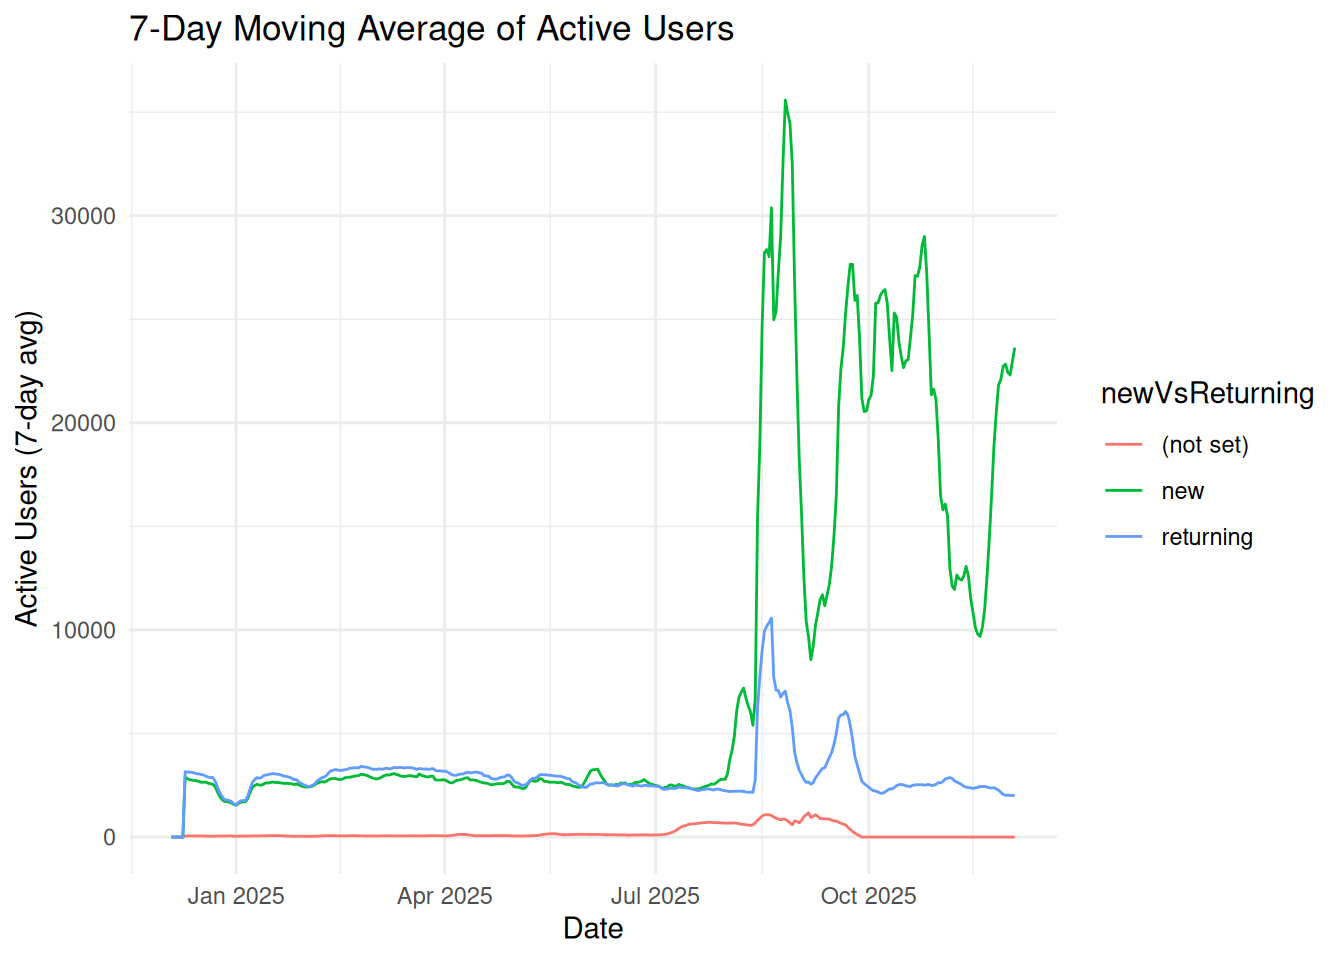
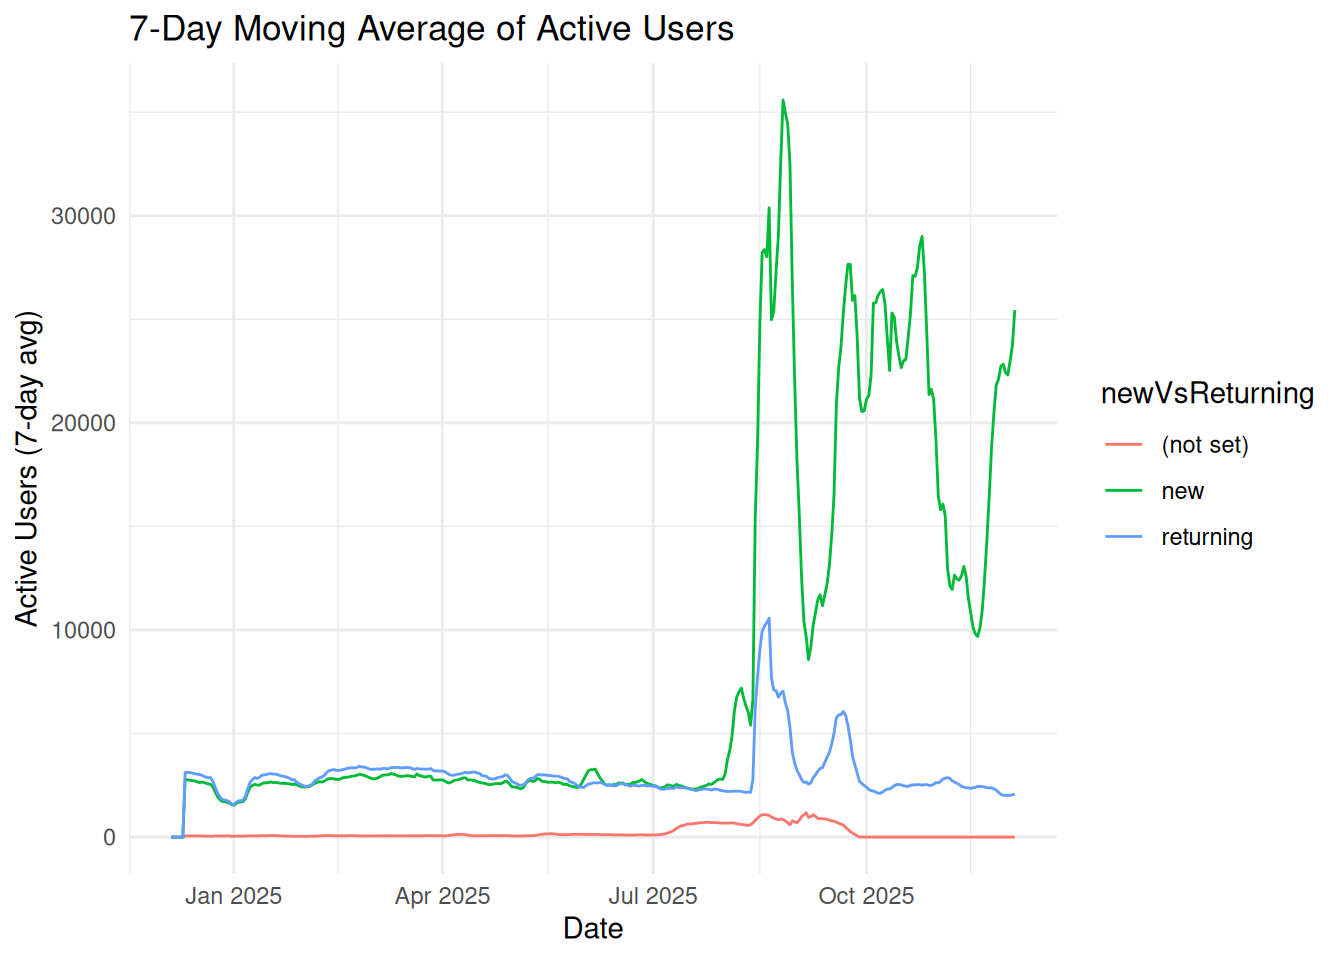
Deploying to gh-pages from @ nih-cfde/programets@027b54f36d97b6ba69a5a5c0ab82bd7a292a5761 🚀

diff --git a/CONTRIBUTING.html b/CONTRIBUTING.html
@@ -1,0 +1,128 @@
+<!DOCTYPE html>
+<!-- Generated by pkgdown: do not edit by hand --><html lang="en"><head><meta http-equiv="Content-Type" content="text/html; charset=UTF-8"><meta charset="utf-8"><meta http-equiv="X-UA-Compatible" content="IE=edge"><meta name="viewport" content="width=device-width, initial-scale=1, shrink-to-fit=no"><title>Contributing to programets • programets</title><script src="deps/jquery-3.6.0/jquery-3.6.0.min.js"></script><meta name="viewport" content="width=device-width, initial-scale=1, shrink-to-fit=no"><link href="deps/bootstrap-5.3.1/bootstrap.min.css" rel="stylesheet"><script src="deps/bootstrap-5.3.1/bootstrap.bundle.min.js"></script><link href="deps/font-awesome-6.5.2/css/all.min.css" rel="stylesheet"><link href="deps/font-awesome-6.5.2/css/v4-shims.min.css" rel="stylesheet"><script src="deps/headroom-0.11.0/headroom.min.js"></script><script src="deps/headroom-0.11.0/jQuery.headroom.min.js"></script><script src="deps/bootstrap-toc-1.0.1/bootstrap-toc.min.js"></script><script src="deps/clipboard.js-2.0.11/clipboard.min.js"></script><script src="deps/search-1.0.0/autocomplete.jquery.min.js"></script><script src="deps/search-1.0.0/fuse.min.js"></script><script src="deps/search-1.0.0/mark.min.js"></script><!-- pkgdown --><script src="pkgdown.js"></script><meta property="og:title" content="Contributing to programets"></head><body>
+    <a href="#main" class="visually-hidden-focusable">Skip to contents</a>
+
+
+    <nav class="navbar navbar-expand-lg fixed-top bg-primary" data-bs-theme="dark" aria-label="Site navigation"><div class="container">
+
+    <a class="navbar-brand me-2" href="index.html">programets</a>
+
+    <small class="nav-text text-muted me-auto" data-bs-toggle="tooltip" data-bs-placement="bottom" title="">0.3.1</small>
+
+
+    <button class="navbar-toggler" type="button" data-bs-toggle="collapse" data-bs-target="#navbar" aria-controls="navbar" aria-expanded="false" aria-label="Toggle navigation">
+      <span class="navbar-toggler-icon"></span>
+    </button>
+
+    <div id="navbar" class="collapse navbar-collapse ms-3">
+      <ul class="navbar-nav me-auto"><li class="nav-item"><a class="nav-link" href="reference/index.html">Reference</a></li>
+<li class="nav-item dropdown">
+  <button class="nav-link dropdown-toggle" type="button" id="dropdown-articles" data-bs-toggle="dropdown" aria-expanded="false" aria-haspopup="true">Articles</button>
+  <ul class="dropdown-menu" aria-labelledby="dropdown-articles"><li><a class="dropdown-item" href="articles/effective_google_analytics.html">Using google analytics effectively</a></li>
+    <li><a class="dropdown-item" href="articles/googleanalytics.html">Google Analytics</a></li>
+  </ul></li>
+      </ul><ul class="navbar-nav"><li class="nav-item"><form class="form-inline" role="search">
+ <input class="form-control" type="search" name="search-input" id="search-input" autocomplete="off" aria-label="Search site" placeholder="Search for" data-search-index="search.json"></form></li>
+<li class="nav-item"><a class="external-link nav-link" href="https://github.com/nih-cfde/programets/" aria-label="GitHub"><span class="fa fab fa-github fa-lg"></span></a></li>
+      </ul></div>
+
+
+  </div>
+</nav><div class="container template-title-body">
+<div class="row">
+  <main id="main" class="col-md-9"><div class="page-header">
+
+      <h1>Contributing to programets</h1>
+      <small class="dont-index">Source: <a href="https://github.com/nih-cfde/programets/blob/main/CONTRIBUTING.md" class="external-link"><code>CONTRIBUTING.md</code></a></small>
+    </div>
+
+<div id="contributing-to-programets" class="section level1">
+
+<p>Thank you for your interest in contributing to <strong>programets</strong>! This document provides guidelines and information about how you can contribute.</p>
+<div class="section level2">
+<h2 id="code-of-conduct">Code of Conduct<a class="anchor" aria-label="anchor" href="#code-of-conduct"></a></h2>
+<p>By participating in this project, you agree to abide by our <a href="CODE_OF_CONDUCT.html">Code of Conduct</a>. Please read it before contributing.</p>
+</div>
+<div class="section level2">
+<h2 id="how-to-contribute">How to Contribute<a class="anchor" aria-label="anchor" href="#how-to-contribute"></a></h2>
+<div class="section level3">
+<h3 id="reporting-issues">Reporting Issues<a class="anchor" aria-label="anchor" href="#reporting-issues"></a></h3>
+<p>Found a bug or have a feature request? Please open an issue at <a href="https://github.com/nih-cfde/programets/issues" class="external-link">GitHub Issues</a>.</p>
+<p>When reporting a bug, please include:</p>
+<ul><li>A clear description of the problem</li>
+<li>Steps to reproduce the issue</li>
+<li>Expected behavior vs actual behavior</li>
+<li>Your R version and operating system</li>
+<li>Output from <code><a href="https://rdrr.io/r/utils/sessionInfo.html" class="external-link">sessionInfo()</a></code>
+</li>
+</ul></div>
+<div class="section level3">
+<h3 id="proposing-changes">Proposing Changes<a class="anchor" aria-label="anchor" href="#proposing-changes"></a></h3>
+<p>We welcome pull requests! Here’s how to get started:</p>
+<ol style="list-style-type: decimal"><li>
+<strong>Fork the repository</strong> and clone it locally</li>
+<li>
+<strong>Create a branch</strong> for your changes: <code>git checkout -b feature/your-feature-name</code>
+</li>
+<li>
+<strong>Make your changes</strong> following the code style guidelines below</li>
+<li>
+<strong>Test your changes</strong> by running <code>devtools::check()</code>
+</li>
+<li>
+<strong>Commit your changes</strong> with a clear commit message</li>
+<li>
+<strong>Push your branch</strong> and open a pull request</li>
+</ol></div>
+<div class="section level3">
+<h3 id="development-setup">Development Setup<a class="anchor" aria-label="anchor" href="#development-setup"></a></h3>
+<p>For detailed development setup instructions, including Google Analytics authentication and encryption configuration, see <a href="DEVELOPER.html">DEVELOPER.md</a>.</p>
+<p>Basic setup:</p>
+<div class="sourceCode" id="cb1"><pre class="downlit sourceCode r">
+<code class="sourceCode R"><span><span class="co"># Install development dependencies</span></span>
+<span><span class="fu">devtools</span><span class="fu">::</span><span class="fu">install_deps</span><span class="op">(</span>dependencies <span class="op">=</span> <span class="cn">TRUE</span><span class="op">)</span></span>
+<span></span>
+<span><span class="co"># Run tests</span></span>
+<span><span class="fu">devtools</span><span class="fu">::</span><span class="fu">test</span><span class="op">(</span><span class="op">)</span></span>
+<span></span>
+<span><span class="co"># Run R CMD check</span></span>
+<span><span class="fu">devtools</span><span class="fu">::</span><span class="fu">check</span><span class="op">(</span><span class="op">)</span></span></code></pre></div>
+</div>
+</div>
+<div class="section level2">
+<h2 id="code-style">Code Style<a class="anchor" aria-label="anchor" href="#code-style"></a></h2>
+<p>This project uses <a href="https://lintr.r-lib.org/" class="external-link">lintr</a> for code style enforcement:</p>
+<ul><li>Use 2-space indentation</li>
+<li>Follow the <a href="https://style.tidyverse.org/" class="external-link">tidyverse style guide</a>
+</li>
+<li>Document functions using roxygen2 comments</li>
+</ul><p>Run the linter before submitting:</p>
+<div class="sourceCode" id="cb2"><pre class="downlit sourceCode r">
+<code class="sourceCode R"><span><span class="fu">lintr</span><span class="fu">::</span><span class="fu">lint_package</span><span class="op">(</span><span class="op">)</span></span></code></pre></div>
+</div>
+<div class="section level2">
+<h2 id="questions">Questions?<a class="anchor" aria-label="anchor" href="#questions"></a></h2>
+<p>If you have questions, feel free to open an issue or reach out to the maintainers listed in the <a href="README.html">README</a>.</p>
+</div>
+</div>
+
+  </main><aside class="col-md-3"><nav id="toc" aria-label="Table of contents"><h2>On this page</h2>
+    </nav></aside></div>
+
+
+    <footer><div class="pkgdown-footer-left">
+  <p>Developed by Sean Davis, David Mayer.</p>
+</div>
+
+<div class="pkgdown-footer-right">
+  <p>Site built with <a href="https://pkgdown.r-lib.org/" class="external-link">pkgdown</a> 2.2.0.</p>
+</div>
+
+    </footer></div>
+
+
+
+
+
+  </body></html>
+

diff --git a/reference/get_github_by_topic.html b/reference/get_github_by_topic.html
@@ -80,7 +80,7 @@ will run without authentication.</p></dd>
 <span class="r-out co"><span class="r-pr">#&gt;</span>   name               owner description stars watchers forks open_issues open_prs</span>
 <span class="r-out co"><span class="r-pr">#&gt;</span>   <span style="color: #949494; font-style: italic;">&lt;chr&gt;</span>              <span style="color: #949494; font-style: italic;">&lt;chr&gt;</span> <span style="color: #949494; font-style: italic;">&lt;chr&gt;</span>       <span style="color: #949494; font-style: italic;">&lt;dbl&gt;</span>    <span style="color: #949494; font-style: italic;">&lt;dbl&gt;</span> <span style="color: #949494; font-style: italic;">&lt;dbl&gt;</span>       <span style="color: #949494; font-style: italic;">&lt;dbl&gt;</span>    <span style="color: #949494; font-style: italic;">&lt;dbl&gt;</span></span>
 <span class="r-out co"><span class="r-pr">#&gt;</span> <span style="color: #BCBCBC;">1</span> awesome-cancer-va… sean… A communit…   318       30    74           1        0</span>
-<span class="r-out co"><span class="r-pr">#&gt;</span> <span style="color: #BCBCBC;">2</span> GEOquery           sean… The bridge…   100        4    39          17        0</span>
+<span class="r-out co"><span class="r-pr">#&gt;</span> <span style="color: #BCBCBC;">2</span> GEOquery           sean… The bridge…   101        4    39          17        0</span>
 <span class="r-out co"><span class="r-pr">#&gt;</span> <span style="color: #BCBCBC;">3</span> MultiAssayExperim… wald… Bioconduct…    73       14    34           1        0</span>
 <span class="r-out co"><span class="r-pr">#&gt;</span> <span style="color: #BCBCBC;">4</span> SpatialExperiment  drig… <span style="color: #BB0000;">NA</span>             71        7    21          30        5</span>
 <span class="r-out co"><span class="r-pr">#&gt;</span> <span style="color: #BCBCBC;">5</span> BiocParallel       Bioc… Bioconduct…    69       16    31          29        1</span>
@@ -93,7 +93,7 @@ will run without authentication.</p></dd>
 <span class="r-out co"><span class="r-pr">#&gt;</span> $ name          <span style="color: #949494; font-style: italic;">&lt;chr&gt;</span> "awesome-cancer-variant-resources"<span style="color: #949494;">, </span>"GEOquery"<span style="color: #949494;">, </span>"MultiAs…</span>
 <span class="r-out co"><span class="r-pr">#&gt;</span> $ owner         <span style="color: #949494; font-style: italic;">&lt;chr&gt;</span> "seandavi"<span style="color: #949494;">, </span>"seandavi"<span style="color: #949494;">, </span>"waldronlab"<span style="color: #949494;">, </span>"drighelli"<span style="color: #949494;">, </span>"Bioc…</span>
 <span class="r-out co"><span class="r-pr">#&gt;</span> $ description   <span style="color: #949494; font-style: italic;">&lt;chr&gt;</span> "A community-maintained repository of cancer clinical kn…</span>
-<span class="r-out co"><span class="r-pr">#&gt;</span> $ stars         <span style="color: #949494; font-style: italic;">&lt;dbl&gt;</span> 318<span style="color: #949494;">, </span>100<span style="color: #949494;">, </span>73<span style="color: #949494;">, </span>71<span style="color: #949494;">, </span>69</span>
+<span class="r-out co"><span class="r-pr">#&gt;</span> $ stars         <span style="color: #949494; font-style: italic;">&lt;dbl&gt;</span> 318<span style="color: #949494;">, </span>101<span style="color: #949494;">, </span>73<span style="color: #949494;">, </span>71<span style="color: #949494;">, </span>69</span>
 <span class="r-out co"><span class="r-pr">#&gt;</span> $ watchers      <span style="color: #949494; font-style: italic;">&lt;dbl&gt;</span> 30<span style="color: #949494;">, </span>4<span style="color: #949494;">, </span>14<span style="color: #949494;">, </span>7<span style="color: #949494;">, </span>16</span>
 <span class="r-out co"><span class="r-pr">#&gt;</span> $ forks         <span style="color: #949494; font-style: italic;">&lt;dbl&gt;</span> 74<span style="color: #949494;">, </span>39<span style="color: #949494;">, </span>34<span style="color: #949494;">, </span>21<span style="color: #949494;">, </span>31</span>
 <span class="r-out co"><span class="r-pr">#&gt;</span> $ open_issues   <span style="color: #949494; font-style: italic;">&lt;dbl&gt;</span> 1<span style="color: #949494;">, </span>17<span style="color: #949494;">, </span>1<span style="color: #949494;">, </span>30<span style="color: #949494;">, </span>29</span>
@@ -107,7 +107,7 @@ will run without authentication.</p></dd>
 <span class="r-out co"><span class="r-pr">#&gt;</span> $ license       <span style="color: #949494; font-style: italic;">&lt;chr&gt;</span> "MIT License"<span style="color: #949494;">, </span>"Other"<span style="color: #949494;">, </span><span style="color: #BB0000;">NA</span><span style="color: #949494;">, </span><span style="color: #BB0000;">NA</span><span style="color: #949494;">, </span>"Other"</span>
 <span class="r-out co"><span class="r-pr">#&gt;</span> $ created_at    <span style="color: #949494; font-style: italic;">&lt;chr&gt;</span> "2016-07-07T13:16:14Z"<span style="color: #949494;">, </span>"2013-07-19T06:44:10Z"<span style="color: #949494;">, </span>"2013-07…</span>
 <span class="r-out co"><span class="r-pr">#&gt;</span> $ pushed_at     <span style="color: #949494; font-style: italic;">&lt;chr&gt;</span> "2025-03-06T23:04:53Z"<span style="color: #949494;">, </span>"2025-11-24T22:31:17Z"<span style="color: #949494;">, </span>"2025-11…</span>
-<span class="r-out co"><span class="r-pr">#&gt;</span> $ updated_at    <span style="color: #949494; font-style: italic;">&lt;chr&gt;</span> "2025-09-03T15:24:31Z"<span style="color: #949494;">, </span>"2025-11-24T22:23:45Z"<span style="color: #949494;">, </span>"2025-11…</span>
+<span class="r-out co"><span class="r-pr">#&gt;</span> $ updated_at    <span style="color: #949494; font-style: italic;">&lt;chr&gt;</span> "2025-09-03T15:24:31Z"<span style="color: #949494;">, </span>"2025-12-05T10:34:44Z"<span style="color: #949494;">, </span>"2025-11…</span>
 <span class="r-out co"><span class="r-pr">#&gt;</span> $ html_url      <span style="color: #949494; font-style: italic;">&lt;chr&gt;</span> "https://github.com/seandavi/awesome-cancer-variant-reso…</span>
 <span class="r-in"><span></span></span>
 </code></pre></div>

diff --git a/articles/googleanalytics.html b/articles/googleanalytics.html
@@ -122,7 +122,7 @@
 <span>    date_range <span class="op">=</span> <span class="fu"><a href="https://rdrr.io/r/base/c.html" class="external-link">c</a></span><span class="op">(</span><span class="va">start_date</span>, <span class="va">end_date</span><span class="op">)</span>,</span>
 <span>    limit <span class="op">=</span> <span class="op">-</span><span class="fl">1</span></span>
 <span><span class="op">)</span></span>
-<span><span class="co">#&gt; ℹ 2025-12-04 19:39:33.774667 &gt; Downloaded [ 82277 ] of total [ 82277 ] rows</span></span></code></pre></div>
+<span><span class="co">#&gt; ℹ 2025-12-05 20:41:30.463384 &gt; Downloaded [ 82263 ] of total [ 82263 ] rows</span></span></code></pre></div>
 </div>
 <div class="cell">
 <div class="sourceCode cell-code" id="cb6"><pre class="downlit sourceCode r">
@@ -158,12 +158,12 @@
 <span><span class="co">#&gt; # A tibble: 6 × 7</span></span>
 <span><span class="co">#&gt;   date       newVsReturning country    activeUsers sessions activeUsers_7day_avg</span></span>
 <span><span class="co">#&gt;   &lt;date&gt;     &lt;chr&gt;          &lt;chr&gt;            &lt;dbl&gt;    &lt;dbl&gt;                &lt;dbl&gt;</span></span>
-<span><span class="co">#&gt; 1 2024-12-04 new            United St…        1083     1086                   NA</span></span>
-<span><span class="co">#&gt; 2 2024-12-04 returning      United St…        1067     1500                   NA</span></span>
-<span><span class="co">#&gt; 3 2024-12-04 returning      China              836     1214                   NA</span></span>
-<span><span class="co">#&gt; 4 2024-12-04 new            China              680      682                   NA</span></span>
-<span><span class="co">#&gt; 5 2024-12-04 returning      United Ki…         246      328                   NA</span></span>
-<span><span class="co">#&gt; 6 2024-12-04 returning      Germany            213      314                   NA</span></span>
+<span><span class="co">#&gt; 1 2024-12-05 new            United St…        1035     1037                   NA</span></span>
+<span><span class="co">#&gt; 2 2024-12-05 returning      United St…        1002     1331                   NA</span></span>
+<span><span class="co">#&gt; 3 2024-12-05 returning      China              747     1086                   NA</span></span>
+<span><span class="co">#&gt; 4 2024-12-05 new            China              624      625                   NA</span></span>
+<span><span class="co">#&gt; 5 2024-12-05 returning      United Ki…         212      307                   NA</span></span>
+<span><span class="co">#&gt; 6 2024-12-05 returning      Germany            193      277                   NA</span></span>
 <span><span class="co">#&gt; # ℹ 1 more variable: sessions_7day_avg &lt;dbl&gt;</span></span>
 <span></span>
 <span><span class="co"># Plot the moving average for active users</span></span>

diff --git a/index.html b/index.html
@@ -277,6 +277,7 @@
 <div class="community">
 <h2 data-toc-skip>Community</h2>
 <ul class="list-unstyled">
+<li><a href="CONTRIBUTING.html">Contributing guide</a></li>
 <li><a href="CODE_OF_CONDUCT.html">Code of conduct</a></li>
 </ul>
 </div>

diff --git a/CONTRIBUTING.md b/CONTRIBUTING.md
@@ -1,0 +1,77 @@
+# Contributing to programets
+
+Thank you for your interest in contributing to **programets**! This
+document provides guidelines and information about how you can
+contribute.
+
+## Code of Conduct
+
+By participating in this project, you agree to abide by our [Code of
+Conduct](CODE_OF_CONDUCT.md). Please read it before contributing.
+
+## How to Contribute
+
+### Reporting Issues
+
+Found a bug or have a feature request? Please open an issue at [GitHub
+Issues](https://github.com/nih-cfde/programets/issues).
+
+When reporting a bug, please include:
+
+- A clear description of the problem
+- Steps to reproduce the issue
+- Expected behavior vs actual behavior
+- Your R version and operating system
+- Output from
+  [`sessionInfo()`](https://rdrr.io/r/utils/sessionInfo.html)
+
+### Proposing Changes
+
+We welcome pull requests! Here’s how to get started:
+
+1.  **Fork the repository** and clone it locally
+2.  **Create a branch** for your changes:
+    `git checkout -b feature/your-feature-name`
+3.  **Make your changes** following the code style guidelines below
+4.  **Test your changes** by running `devtools::check()`
+5.  **Commit your changes** with a clear commit message
+6.  **Push your branch** and open a pull request
+
+### Development Setup
+
+For detailed development setup instructions, including Google Analytics
+authentication and encryption configuration, see
+[DEVELOPER.md](DEVELOPER.md).
+
+Basic setup:
+
+``` r
+# Install development dependencies
+devtools::install_deps(dependencies = TRUE)
+
+# Run tests
+devtools::test()
+
+# Run R CMD check
+devtools::check()
+```
+
+## Code Style
+
+This project uses [lintr](https://lintr.r-lib.org/) for code style
+enforcement:
+
+- Use 2-space indentation
+- Follow the [tidyverse style guide](https://style.tidyverse.org/)
+- Document functions using roxygen2 comments
+
+Run the linter before submitting:
+
+``` r
+lintr::lint_package()
+```
+
+## Questions?
+
+If you have questions, feel free to open an issue or reach out to the
+maintainers listed in the [README](README.md).

diff --git a/reference/get_github_by_topic.md b/reference/get_github_by_topic.md
@@ -40,7 +40,7 @@ head(df)
 #>   name               owner description stars watchers forks open_issues open_prs
 #>   <chr>              <chr> <chr>       <dbl>    <dbl> <dbl>       <dbl>    <dbl>
 #> 1 awesome-cancer-va… sean… A communit…   318       30    74           1        0
-#> 2 GEOquery           sean… The bridge…   100        4    39          17        0
+#> 2 GEOquery           sean… The bridge…   101        4    39          17        0
 #> 3 MultiAssayExperim… wald… Bioconduct…    73       14    34           1        0
 #> 4 SpatialExperiment  drig… NA             71        7    21          30        5
 #> 5 BiocParallel       Bioc… Bioconduct…    69       16    31          29        1
@@ -53,7 +53,7 @@ dplyr::glimpse(df)
 #> $ name          <chr> "awesome-cancer-variant-resources", "GEOquery", "MultiAs…
 #> $ owner         <chr> "seandavi", "seandavi", "waldronlab", "drighelli", "Bioc…
 #> $ description   <chr> "A community-maintained repository of cancer clinical kn…
-#> $ stars         <dbl> 318, 100, 73, 71, 69
+#> $ stars         <dbl> 318, 101, 73, 71, 69
 #> $ watchers      <dbl> 30, 4, 14, 7, 16
 #> $ forks         <dbl> 74, 39, 34, 21, 31
 #> $ open_issues   <dbl> 1, 17, 1, 30, 29
@@ -67,6 +67,6 @@ dplyr::glimpse(df)
 #> $ license       <chr> "MIT License", "Other", NA, NA, "Other"
 #> $ created_at    <chr> "2016-07-07T13:16:14Z", "2013-07-19T06:44:10Z", "2013-07…
 #> $ pushed_at     <chr> "2025-03-06T23:04:53Z", "2025-11-24T22:31:17Z", "2025-11…
-#> $ updated_at    <chr> "2025-09-03T15:24:31Z", "2025-11-24T22:23:45Z", "2025-11…
+#> $ updated_at    <chr> "2025-09-03T15:24:31Z", "2025-12-05T10:34:44Z", "2025-11…
 #> $ html_url      <chr> "https://github.com/seandavi/awesome-cancer-variant-reso…
 ```

diff --git a/articles/googleanalytics.md b/articles/googleanalytics.md
@@ -70,7 +70,7 @@ daily_user_country_data <- ga_data(
     date_range = c(start_date, end_date),
     limit = -1
 )
-#> ℹ 2025-12-04 19:39:33.774667 > Downloaded [ 82277 ] of total [ 82277 ] rows
+#> ℹ 2025-12-05 20:41:30.463384 > Downloaded [ 82263 ] of total [ 82263 ] rows
 ```
 
 ``` r
@@ -106,12 +106,12 @@ head(moving_avg_data)
 #> # A tibble: 6 × 7
 #>   date       newVsReturning country    activeUsers sessions activeUsers_7day_avg
 #>   <date>     <chr>          <chr>            <dbl>    <dbl>                <dbl>
-#> 1 2024-12-04 new            United St…        1083     1086                   NA
-#> 2 2024-12-04 returning      United St…        1067     1500                   NA
-#> 3 2024-12-04 returning      China              836     1214                   NA
-#> 4 2024-12-04 new            China              680      682                   NA
-#> 5 2024-12-04 returning      United Ki…         246      328                   NA
-#> 6 2024-12-04 returning      Germany            213      314                   NA
+#> 1 2024-12-05 new            United St…        1035     1037                   NA
+#> 2 2024-12-05 returning      United St…        1002     1331                   NA
+#> 3 2024-12-05 returning      China              747     1086                   NA
+#> 4 2024-12-05 new            China              624      625                   NA
+#> 5 2024-12-05 returning      United Ki…         212      307                   NA
+#> 6 2024-12-05 returning      Germany            193      277                   NA
 #> # ℹ 1 more variable: sessions_7day_avg <dbl>
 
 # Plot the moving average for active users
